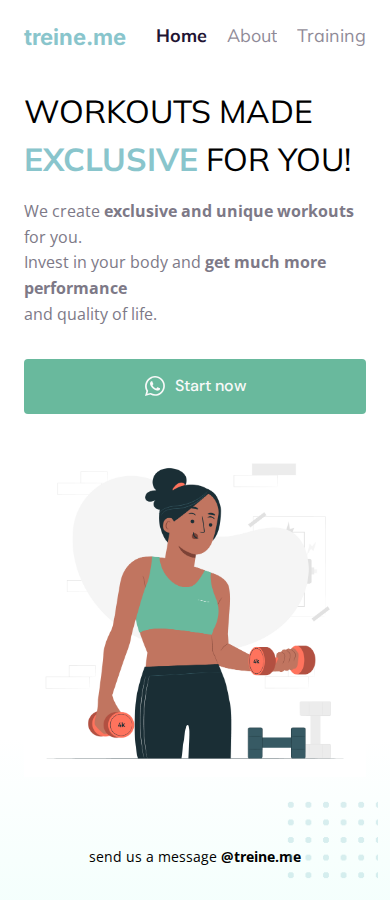
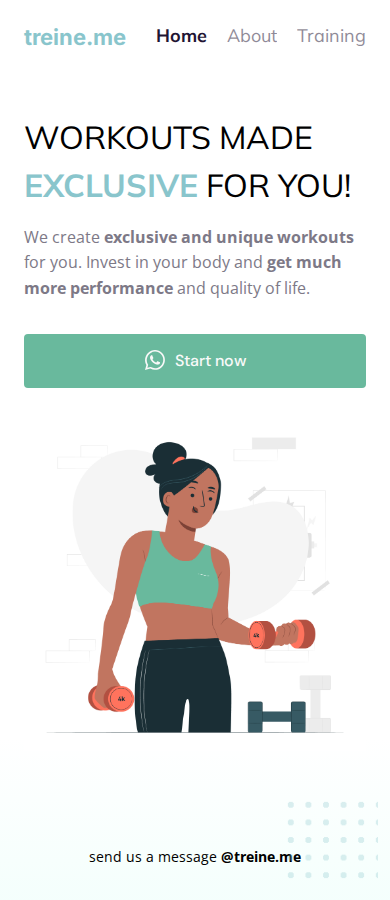
Додано README до ДЗ 8, прибрано переноси абзацу на мобільному

Changed region(s): [[0.0615, 0.0933, 0.9538, 0.8711], [0.7692, 0.5911, 0.8, 0.6533], [0.6462, 0.5289, 0.6769, 0.56]]

diff --git a/hw-08/style.css b/hw-08/style.css
@@ -225,6 +225,11 @@ body::after {
     margin-bottom: 2rem;
   }
 
+  /* на вузькому екрані переноси рядків робить браузер */
+  .hero__desc br {
+    display: none;
+  }
+
   .btn {
     justify-content: center;
     width: 100%;

diff --git a/hw-08/README.md b/hw-08/README.md
@@ -1,0 +1,5 @@
+# ДЗ #8: Верстка лендінгу з Figma (treine.me)
+
+Лендінг treine.me за макетом Layout to study HTML & CSS: шапка з логотипом і меню, hero з двома колонками (текст, кнопка «Start now» з іконкою WhatsApp | ілюстрація) та футер. Кольори й шрифти (Mulish, Open Sans, Inter, DM Sans) винесено в CSS-змінні й Google Fonts, розкладка зроблена на Flexbox. Додано бонуси: точковий декор у кутку, hover-ефекти та адаптив до 768px.
+
+Як відкрити: відкрийте `hw-08/index.html` у браузері або перейдіть на GitHub Pages: https://kustymenko.github.io/my-web-course/hw-08/
